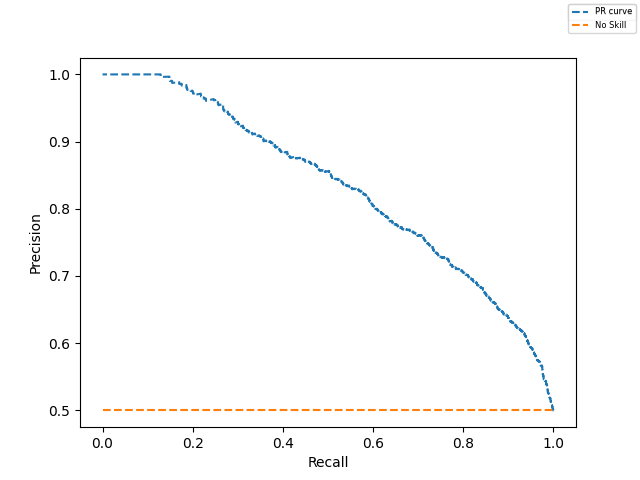
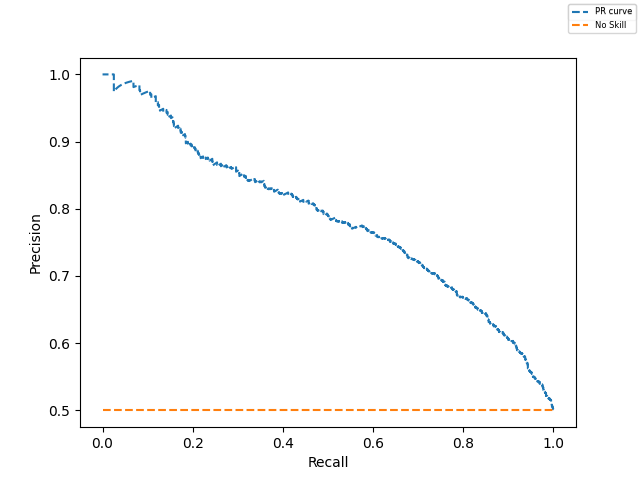
added validation with experimental edges

diff --git a/src/train/train_random_forest_supervised.py b/src/train/train_random_forest_supervised.py
@@ -1,3 +1,4 @@
+from random import seed
 from loguru import logger
 import networkx as nx
 import pandas as pd
@@ -43,6 +44,7 @@ def train(
           show_progress=False,
           save=False,
           predict=False,
+          perform_testing=False,
           idg_predictions_file="results/predictions/idg_predictions_test.csv",
           iptmnet_predictions_file="results/predictions/iptmnet_understudied_predictions_test.csv" 
         ):
@@ -55,10 +57,13 @@ def train(
 
     # positive edges
     positive_edges = list(iptmnet_graph.edges())
+
+    positive_edges, val_edges = train_test_split(positive_edges,random_state=20,shuffle=True)
     
     # filter experimental edges
     if experimental_edges is None:
         experimental_edges = du.get_experimental_edges()
+        print(len(experimental_edges))
     logger.info(f"Before filtering : {len(positive_edges)}")
     positive_edges = gu.filter_edges(positive_edges,experimental_edges)
     logger.info(f"After filtering : {len(positive_edges)}")
@@ -177,7 +182,45 @@ def train(
         # predict idg
         predictions_pd = _predict(grid,iptmnet_graph,embeddings_pd,edge_operator,show_progress,"idg")
         predictions_pd.to_csv(idg_predictions_file,index=False)
-        logger.info(f"Predictions saved to {idg_predictions_file}")              
+        logger.info(f"Predictions saved to {idg_predictions_file}")
+
+    if perform_testing == True:
+       
+       # get negatives for experimental edges
+       positive_val_edges = experimental_edges
+       negative_val_edges = gu.sample_negative_edges(positive_val_edges,num_negative=1)
+
+       # get labels
+       positive_val_labels = np.ones((len(positive_val_edges),))
+       negative_val_labels = np.zeros((len(negative_val_edges),))
+
+       # combine both positive and negative
+       val_edges = positive_val_edges + negative_val_edges
+
+       # combine labels
+       val_labels = np.concatenate([positive_val_labels, negative_val_labels],axis=0)
+
+       # shuffle them
+       val_edges, val_labels = shuffle(val_edges,val_labels,random_state=20)
+
+        # get edge embeddings
+       val_edge_embeddings = utils.get_embeddings_vector(val_edges,embeddings_pd,operator=edge_operator,show_progress=show_progress)
+
+       # predict
+       val_labels_predicted = grid.predict(val_edge_embeddings)
+       val_labels_predicted_proba = grid.predict_proba(val_edge_embeddings)
+
+       # calculate scores
+       scores = {
+            "f1" : f1_score(val_labels,val_labels_predicted,average="binary",pos_label=1),
+            "recall" : recall_score(val_labels,val_labels_predicted,average="binary",pos_label=1),
+            "precision" : precision_score(val_labels,val_labels_predicted,average="binary",pos_label=1),
+            "au_roc": roc_auc_score(val_labels,val_labels_predicted_proba[:,1]),
+            "au_pr": average_precision_score(val_labels,val_labels_predicted_proba[:,1])
+        }
+
+       logger.info(scores)  
+
 
     return scores
 

diff --git a/src/main.py b/src/main.py
@@ -55,12 +55,13 @@ elif command == "build_features_only_go_mp":
     feature_builder.build_features_only_go_term_type(None,"mp")
 elif command == "train_supervised_rf":
     from train import train_random_forest_supervised
-    train_random_forest_supervised.train(max_depth=10,
-                                         criterion="gini",
-                                         max_features="auto",
-                                         min_samples_split=100,
-                                         min_samples_leaf=10,
-                                         predict=True
+    train_random_forest_supervised.train(max_depth=0.8,
+                                         criterion="entropy",
+                                         max_features="log2",
+                                         min_samples_split=52,
+                                         min_samples_leaf=9,
+                                         predict=False,
+                                         perform_testing=True
                                         )
                                         
 # ************* EXPERIMENTS *********** #

diff --git a/src/misc/graph_utils.py b/src/misc/graph_utils.py
@@ -49,6 +49,26 @@ def sample_negative_edges(edges,num_negative=1, seed=10,show_progress=True):
 
     return negative_edges
 
+def sample_negative_edges_for_testing(experimental_edges,all_edges,num_negative=1, seed=10,show_progress=True):
+    random.seed(seed)
+    positive_edges = experimental_edges
+    negative_edges = []
+    for edge in tqdm(positive_edges,disable=not show_progress):
+        
+        for _ in range(0,num_negative):
+            
+            # create negative edge
+            negative_edge = _create_corrupted_edge(all_edges,edge)
+                        
+            # check if this edge exists already
+            while negative_edge in all_edges:
+                negative_edge = _create_corrupted_edge(all_edges,edge)
+
+            # append to negative edges
+            negative_edges.append(negative_edge)
+
+    return negative_edges
+
 
 def _create_corrupted_edge(positive_edges,edge):
     # radomly pick an egde from positive edges

diff --git a/src/data/iptmnet_embedder.py b/src/data/iptmnet_embedder.py
@@ -27,6 +27,9 @@ def embed(iptmnet_graph=None,
         iptmnet_graph_file = "data/input/iptmnet_graph_cleaned_directed.gml"
         logger.info(f"Loading data from {iptmnet_graph_file}")
         iptmnet_graph = nx.read_gml(iptmnet_graph_file)
+
+    # remove experimentally validated edges
+    
         
     # print summary
     logger.info(f"Number of nodes : {len(iptmnet_graph.nodes())}")
